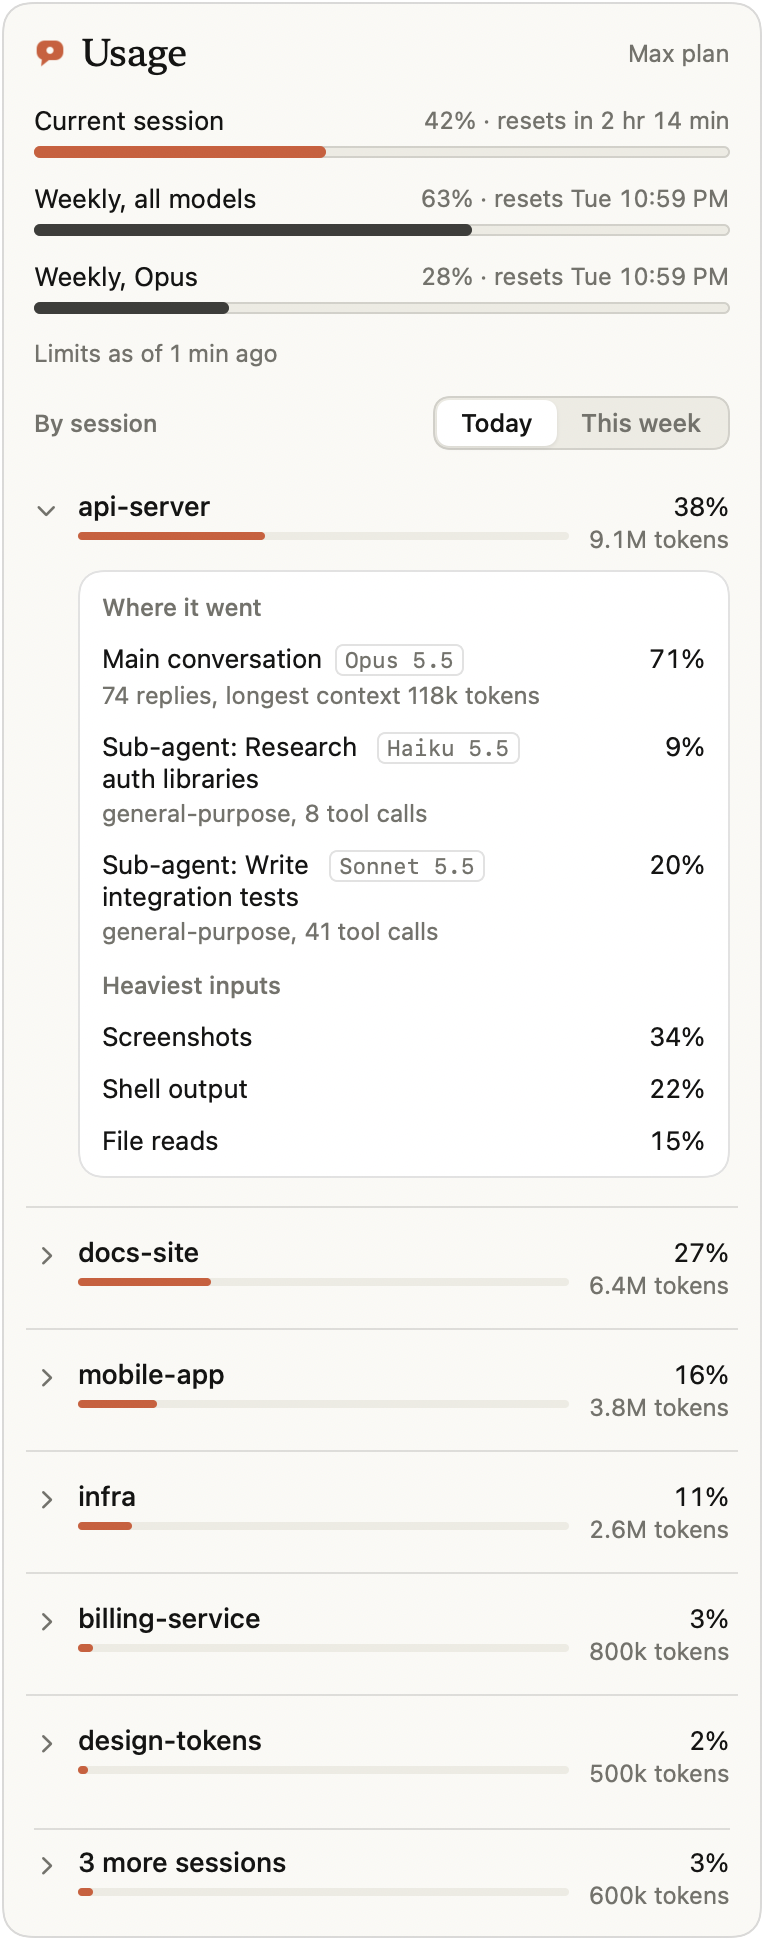
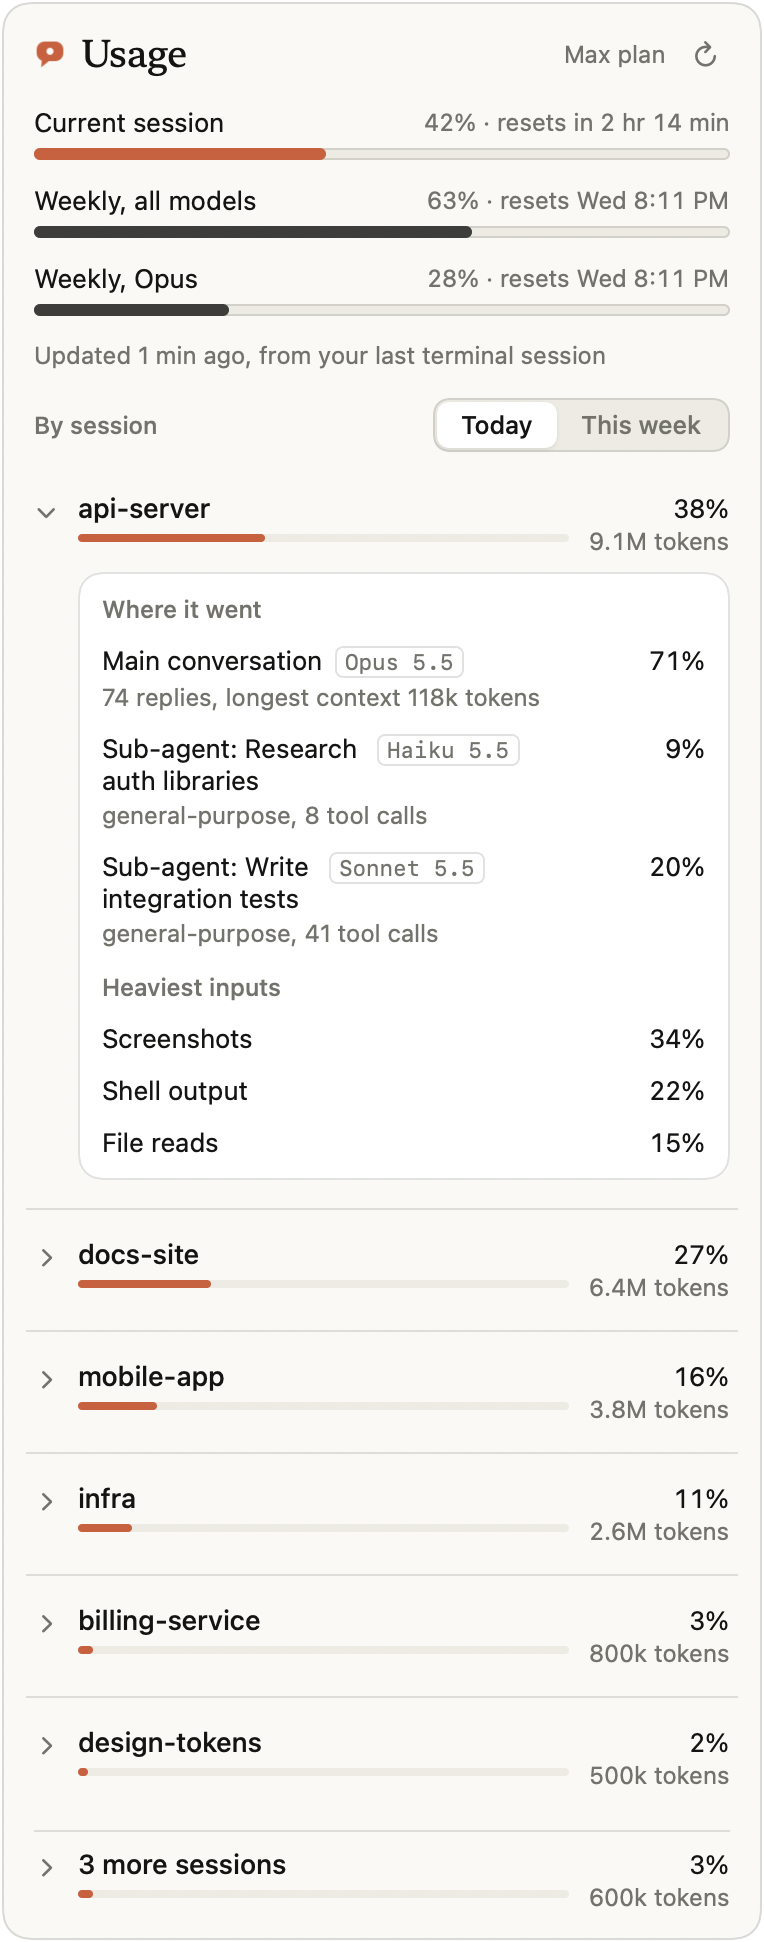
Reply to a finished session from the menu; honest plan-limit bars
- A second Stop hook (async + asyncRewake) waits after each turn; a reply
  typed in the menu wakes the session with it. Typing in the session itself,
  ending it or a newer turn makes the hook step aside. Tested live.
- Usage: refresh button; bars past their reset time show 'reset at' instead
  of the old percentage; says where the numbers come from

diff --git a/app/Sources/NeedsYou/NeedsStore.swift b/app/Sources/NeedsYou/NeedsStore.swift
@@ -53,6 +53,8 @@ final class NeedsStore: ObservableObject {
     @Published var openCount = 0
     /// Session id -> the desktop app's own id, for sessions that can be opened by deep link.
     @Published var openIds: [String: String] = [:]
+    /// Sessions whose hook is waiting for a reply from the menu bar.
+    @Published var replyable = Set<String>()
 
     var attention: Attention {
         if !permissions.isEmpty { return .permission }
@@ -63,6 +65,8 @@ final class NeedsStore: ObservableObject {
 
     let demo: Bool
     private var hidden = Set<String>()
+    /// Session id -> time of the reply sent from the menu; its card stays hidden until the session stops again.
+    private var repliedAt: [String: Date] = [:]
     private let previewCache = ReplyPreviewCache()
 
     init(demo: Bool = false) {
@@ -100,6 +104,22 @@ final class NeedsStore: ObservableObject {
         if !demo { Self.writeAnswer(id: card.id, decision: decision) }
         hidden.insert(card.id)
         permissions.removeAll { $0.id == card.id }
+    }
+
+    /// Sends a reply to a finished session; its waiting hook wakes the session with it.
+    func reply(to sessionId: String, text: String) {
+        let t = text.trimmingCharacters(in: .whitespacesAndNewlines)
+        guard !t.isEmpty else { return }
+        if !demo {
+            let obj: [String: Any] = ["version": 1, "session_id": sessionId, "text": t, "sent_at": Date().timeIntervalSince1970]
+            let dir = Paths.needsDir.appendingPathComponent("replies")
+            try? FileManager.default.createDirectory(at: dir, withIntermediateDirectories: true)
+            if let data = try? JSONSerialization.data(withJSONObject: obj) {
+                try? data.write(to: dir.appendingPathComponent(sessionId + ".json"), options: .atomic)
+            }
+        }
+        repliedAt[sessionId] = Date()
+        waiting.removeAll { $0.id == sessionId }
     }
 
     /// Answers a question card: the tool's own input plus an "answers" map, per PROTOCOL.md.
@@ -156,6 +176,7 @@ final class NeedsStore: ObservableObject {
         var waitingSince: [String: Event] = [:]
         var lastStopToday: [String: Event] = [:]
         var lastReply: [String: String] = [:]
+        var lastStop: [String: Date] = [:]
         let midnight = Calendar.current.startOfDay(for: now)
         for e in events {
             switch e.kind {
@@ -164,6 +185,7 @@ final class NeedsStore: ObservableObject {
             default: break
             }
             if e.kind == "stop", let m = e.message, !m.isEmpty { lastReply[e.sessionId] = m }
+            if e.kind == "stop" { lastStop[e.sessionId] = e.ts }
             if e.kind == "stop", e.ts >= midnight { lastStopToday[e.sessionId] = e }
         }
         let permSessions = Set(perms.map(\.sessionId))
@@ -171,6 +193,7 @@ final class NeedsStore: ObservableObject {
         for (sid, e) in waitingSince {
             guard let s = bySession[sid], s.status == "idle", now.timeIntervalSince(e.ts) < 12 * 3600,
                   !permSessions.contains(sid) else { continue }
+            if let r = repliedAt[sid], (lastStop[sid] ?? .distantPast) < r { continue }
             let preview = lastReply[sid] ?? previewCache.text(sessionId: sid, transcript: e.transcript)
             waits.append(WaitingCard(id: sid, name: name(sid, cwd: e.cwd, transcript: e.transcript), since: e.ts,
                                      canOpen: desktop(sid), preview: preview))
@@ -200,6 +223,12 @@ final class NeedsStore: ObservableObject {
         idle = idles
         done = Array(dones)
         openCount = live.count
+        replyable = Set(((try? FileManager.default.contentsOfDirectory(at: Paths.needsDir.appendingPathComponent("waiting"),
+                                                                       includingPropertiesForKeys: nil)) ?? []).compactMap { u in
+            guard u.pathExtension == "json", let j = readJSON(u), let pid = (j["pid"] as? NSNumber)?.int32Value,
+                  SessionDirectory.isAlive(pid) else { return nil }
+            return u.deletingPathExtension().lastPathComponent
+        })
         openIds = Dictionary(live.compactMap { s in s.hostSessionId.map { (s.sessionId, $0) } }, uniquingKeysWith: { a, _ in a })
     }
 

diff --git a/app/Sources/NeedsYou/UsagePanel.swift b/app/Sources/NeedsYou/UsagePanel.swift
@@ -15,7 +15,7 @@ struct UsagePanelView: View {
 
     private var content: some View {
         VStack(alignment: .leading, spacing: 0) {
-            PanelHeader(title: "Usage", trailing: store.limits?.plan)
+            PanelHeader(title: "Usage", trailing: store.limits?.plan, onRefresh: { store.load() })
             limits
             sessionsSection
                 .padding(.bottom, 8)
@@ -32,7 +32,9 @@ struct UsagePanelView: View {
                     limitRow(row, accent: i == 0)
                 }
                 if let at = info.capturedAt {
-                    Text("Limits as of \(Fmt.duration(Date().timeIntervalSince(at))) ago").font(Fonts.small).foregroundStyle(p.muted)
+                    // Claude Code passes limits only to the status line of terminal sessions.
+                    Text("Updated \(Fmt.duration(Date().timeIntervalSince(at))) ago, from your last terminal session")
+                        .font(Fonts.small).foregroundStyle(p.muted)
                 }
             } else {
                 Text("Plan limits appear after the status line script runs. See README.")
@@ -43,14 +45,16 @@ struct UsagePanelView: View {
     }
 
     private func limitRow(_ r: LimitRow, accent: Bool) -> some View {
-        VStack(alignment: .leading, spacing: 5) {
+        // Past its reset time, the saved percentage is from the old window, so don't show it.
+        let reset = (r.resets ?? .distantFuture) <= Date()
+        return VStack(alignment: .leading, spacing: 5) {
             HStack {
                 Text(r.label)
                 Spacer()
-                Text([Fmt.percent(r.percent / 100), LimitsReader.resetText(r.resets)].compactMap { $0 }.joined(separator: " \u{00B7} "))
+                Text([reset ? nil : Fmt.percent(r.percent / 100), LimitsReader.resetText(r.resets)].compactMap { $0 }.joined(separator: " \u{00B7} "))
                     .font(Fonts.small).foregroundStyle(p.muted).monospacedDigit()
             }
-            bar(fraction: r.percent / 100, color: accent ? p.accent : p.soft, height: 6, outlined: true)
+            bar(fraction: reset ? 0 : r.percent / 100, color: accent ? p.accent : p.soft, height: 6, outlined: true)
         }
         .accessibilityElement(children: .combine)
     }

diff --git a/app/Sources/NeedsYou/ReplyField.swift b/app/Sources/NeedsYou/ReplyField.swift
@@ -1,0 +1,40 @@
+import SwiftUI
+
+/// Reply box on a finished session's card. Return sends; Option-Return adds a line.
+struct ReplyField: View {
+    let onSend: (String) -> Void
+    @Environment(\.palette) private var p
+    @State private var text = ""
+
+    var body: some View {
+        HStack(alignment: .bottom, spacing: 6) {
+            if Screenshots.active {
+                Text("Reply").foregroundStyle(p.muted)
+                    .frame(maxWidth: .infinity, alignment: .leading)
+                    .padding(.horizontal, 10).padding(.vertical, 7)
+                    .background(RoundedRectangle(cornerRadius: 8).strokeBorder(p.line, lineWidth: 1))
+            } else {
+                TextField("Reply", text: $text, axis: .vertical)
+                    .textFieldStyle(.plain).lineLimit(1...6)
+                    .padding(.horizontal, 10).padding(.vertical, 7)
+                    .background(RoundedRectangle(cornerRadius: 8).strokeBorder(p.line, lineWidth: 1))
+                    .onSubmit(send)
+            }
+            Button(action: send) {
+                Image(systemName: "arrow.up").font(.system(size: 12, weight: .bold)).foregroundStyle(p.buttonInk)
+                    .frame(width: 30, height: 30)
+                    .background(Circle().fill(p.button))
+            }
+            .buttonStyle(.plain)
+            .opacity(text.trimmingCharacters(in: .whitespacesAndNewlines).isEmpty && !Screenshots.active ? 0.4 : 1)
+            .accessibilityLabel("Send reply")
+        }
+    }
+
+    private func send() {
+        let t = text
+        guard !t.trimmingCharacters(in: .whitespacesAndNewlines).isEmpty else { return }
+        text = ""
+        onSend(t)
+    }
+}

diff --git a/app/Sources/NeedsYou/Components.swift b/app/Sources/NeedsYou/Components.swift
@@ -82,12 +82,21 @@ struct PanelHeader: View {
     @Environment(\.palette) private var p
     let title: String
     let trailing: String?
+    var onRefresh: (() -> Void)? = nil
     var body: some View {
         HStack(spacing: 8) {
             MarkImage()
             Text(title).font(Fonts.title).accessibilityAddTraits(.isHeader)
             Spacer()
             if let trailing { Text(trailing).font(Fonts.small).foregroundStyle(p.muted).monospacedDigit() }
+            if let onRefresh {
+                Button(action: onRefresh) {
+                    Image(systemName: "arrow.clockwise").font(.system(size: 12, weight: .semibold)).foregroundStyle(p.muted)
+                        .frame(width: 24, height: 24).contentShape(Rectangle())
+                }
+                .buttonStyle(.plain)
+                .accessibilityLabel("Refresh")
+            }
         }
         .padding(.horizontal, 16).padding(.top, 14).padding(.bottom, 10)
     }

diff --git a/app/Sources/NeedsYou/NeedsPanel.swift b/app/Sources/NeedsYou/NeedsPanel.swift
@@ -137,6 +137,9 @@ struct NeedsPanelView: View {
                 if let t = w.preview { MessageBox(text: t) } else {
                     Text("Finished and is waiting for your next message").foregroundStyle(p.soft)
                 }
+                if store.replyable.contains(w.id) || store.demo {
+                    ReplyField { store.reply(to: w.id, text: $0) }
+                }
             }
         }
     }

diff --git a/app/Sources/NeedsYou/Limits.swift b/app/Sources/NeedsYou/Limits.swift
@@ -72,7 +72,7 @@ enum LimitsReader {
     static func resetText(_ d: Date?, now: Date = Date()) -> String? {
         guard let d else { return nil }
         let s = d.timeIntervalSince(now)
-        if s <= 0 { return "resets now" }
+        if s <= 0 { return "reset at " + Fmt.clockTime(d) }
         if s < 86400 { return "resets in " + Fmt.duration(s) }
         return "resets " + Fmt.weekdayTime(d)
     }

diff --git a/hooks/needs_you_hook.py b/hooks/needs_you_hook.py
@@ -9,6 +9,10 @@ One script handles every event it is registered for, reading the event from stdi
   Notification       log "idle" when notification_type is idle_prompt
   SessionEnd         log "end"
 
+Run with --await-reply as an async Stop hook with asyncRewake: after a session finishes, it
+waits in the background for a reply typed in the menu bar and wakes the session with it
+(exit code 2, reply on stderr). It steps aside as soon as you type in the session itself.
+
 File formats are in docs/PROTOCOL.md. Standard library only.
 
 Safety rule: this script must never be the reason a session hangs or errors. Every path
@@ -90,6 +94,52 @@ def log_event(root, name, data, message=None):
         pass
 
 
+REPLY_MAX_WAIT = 24 * 3600
+REPLY_FRAME = "The user replied from the Needs You menu bar. Treat this as their next message:\n\n"
+
+
+def clear_waiter(root, session_id):
+    if session_id:
+        remove_quietly(os.path.join(root, "waiting", session_id + ".json"))
+
+
+def await_reply(root, data):
+    """Returns the reply text, or None if the session moved on without one."""
+    sid = data.get("session_id")
+    if not sid or "/" in sid:
+        return None
+    waiting = os.path.join(root, "waiting", sid + ".json")
+    reply_path = os.path.join(root, "replies", sid + ".json")
+    os.makedirs(os.path.dirname(waiting), exist_ok=True)
+    os.makedirs(os.path.dirname(reply_path), exist_ok=True)
+    remove_quietly(reply_path)  # a reply meant for an earlier turn is stale
+    me = os.getpid()
+    write_json_atomic(waiting, {"version": VERSION, "session_id": sid, "pid": me, "since": time.time(),
+                                "cwd": data.get("cwd"), "transcript_path": data.get("transcript_path")})
+    deadline = time.time() + REPLY_MAX_WAIT
+    while time.time() < deadline:
+        time.sleep(1)
+        try:
+            with open(waiting) as f:
+                if json.load(f).get("pid") != me:
+                    return None  # a newer turn took over
+        except (OSError, ValueError):
+            return None  # removed: you typed in the session, or it ended
+        if os.getppid() == 1:
+            break  # Claude Code exited
+        if os.path.exists(reply_path):
+            try:
+                with open(reply_path) as f:
+                    text = json.load(f).get("text")
+            except (OSError, ValueError):
+                continue
+            remove_quietly(reply_path)
+            remove_quietly(waiting)
+            return text if isinstance(text, str) and text.strip() else None
+    remove_quietly(waiting)
+    return None
+
+
 def handle_permission(root, data):
     if not app_is_running(root):
         return None
@@ -154,6 +204,14 @@ def main():
     root = base_dir()
     event = data.get("hook_event_name")
 
+    if "--await-reply" in sys.argv:
+        if event == "Stop":
+            text = await_reply(root, data)
+            if text:
+                sys.stderr.write(REPLY_FRAME + text.strip() + "\n")
+                sys.exit(2)  # wakes the session (asyncRewake)
+        return
+
     if event == "PermissionRequest":
         decision = handle_permission(root, data)
         if decision:
@@ -162,18 +220,22 @@ def main():
                 "decision": decision,
             }}))
     elif event == "UserPromptSubmit":
+        clear_waiter(root, data.get("session_id"))
         log_event(root, "prompt", data)
     elif event == "Stop":
         log_event(root, "stop", data, data.get("last_assistant_message"))
     elif event == "Notification" and data.get("notification_type") == "idle_prompt":
         log_event(root, "idle", data, data.get("message"))
     elif event == "SessionEnd":
+        clear_waiter(root, data.get("session_id"))
         log_event(root, "end", data)
 
 
 if __name__ == "__main__":
     try:
         main()
+    except SystemExit:
+        raise
     except Exception:  # never break the session
         pass
     sys.exit(0)

diff --git a/scripts/install.py b/scripts/install.py
@@ -85,6 +85,10 @@ def add_ours(settings):
         if is_async:
             entry["async"] = True
         hooks.setdefault(event, []).append({"matcher": matcher, "hooks": [entry]})
+    # Waits in the background after each turn for a reply typed in the menu bar.
+    hooks["Stop"].append({"matcher": "", "hooks": [{
+        "type": "command", "command": "python3 " + shq(HOOK) + " --await-reply",
+        "async": True, "asyncRewake": True}]})
 
 
 def install_statusline(settings, state):

diff --git a/README.md b/README.md
@@ -7,7 +7,8 @@ and shows where your usage is going, session by session.
 - **Click** the icon: **Needs you**. Permission prompts from any session, with the exact
   command and Allow / Deny buttons. Questions with options (click one to answer).
   Plans waiting for approval. Sessions that finished, with a summary of their last message
-  (click it to read the whole message, formatted). What is running now, which sessions are idle, and what finished
+  (click it to read the whole message, formatted), and a reply box: type your answer and
+  the session carries on with it. What is running now, which sessions are idle, and what finished
   today. Click any session to jump straight to it in the Claude desktop app.
 - **A coloured dot on the icon** tells you at a glance: red, a permission prompt is waiting;
   yellow, a session finished and is waiting for your reply; blue, sessions are working; green,
@@ -102,6 +103,9 @@ osascript -e 'quit app "Needs You"' && rm -rf ~/Applications/"Needs You.app"
 
 - Opening a session uses the Claude desktop app's own `claude://code/continue?session=local_…`
   link, with the app's own session id, so it works for desktop sessions. Terminal sessions are listed but can't be opened from the menu.
+- Plan limits update whenever a terminal Claude Code session replies; the desktop app doesn't
+  run status line scripts, so with only desktop sessions open the bars show when they were last
+  updated.
 - Usage shares are estimates from local transcripts. Your actual plan usage is the limits bar
   at the top of the Usage panel.
 - Claude Code's session files are an internal format. If a Claude Code update changes them,

diff --git a/docs/PROTOCOL.md b/docs/PROTOCOL.md
@@ -13,6 +13,8 @@ which both sides honour). All writes are atomic: write `name.tmp`, then rename.
 | `answers/<id>.json` | app | hook | The answer to one prompt. |
 | `events.jsonl` | hook | app | One JSON object per line: session lifecycle events. |
 | `limits.json` | status line script | app | Last plan-limit snapshot. |
+| `waiting/<session_id>.json` | hook | app | A finished session that can take a reply from the menu bar. |
+| `replies/<session_id>.json` | app | hook | Your reply to that session. |
 
 ## pending/<id>.json
 
@@ -64,6 +66,18 @@ with no output, so the normal prompt takes over.
 `event` is one of `prompt` (UserPromptSubmit), `stop` (Stop), `idle` (Notification with
 `notification_type` `idle_prompt`) or `end` (SessionEnd). The app reads the whole file. The hook
 trims it to the last 2000 lines when it grows past 4000.
+
+## Replies
+
+After each turn, a second Stop hook (`--await-reply`, registered with `async` and
+`asyncRewake`) writes `waiting/<session_id>.json` (`{"pid", "since", "cwd", ...}`) and waits in
+the background. When the app writes `replies/<session_id>.json`
+(`{"version": 1, "session_id": "...", "text": "...", "sent_at": ...}`), the hook deletes both
+files, prints the reply on stderr and exits with code 2. Claude Code then wakes the session,
+which receives the reply as Stop hook feedback. The waiting file is removed, and the hook exits
+quietly, when you type in the session itself (UserPromptSubmit), when the session ends, or when
+a newer turn starts waiting. The app offers a reply box only while the waiting file's `pid` is
+alive.
 
 ## limits.json
 
